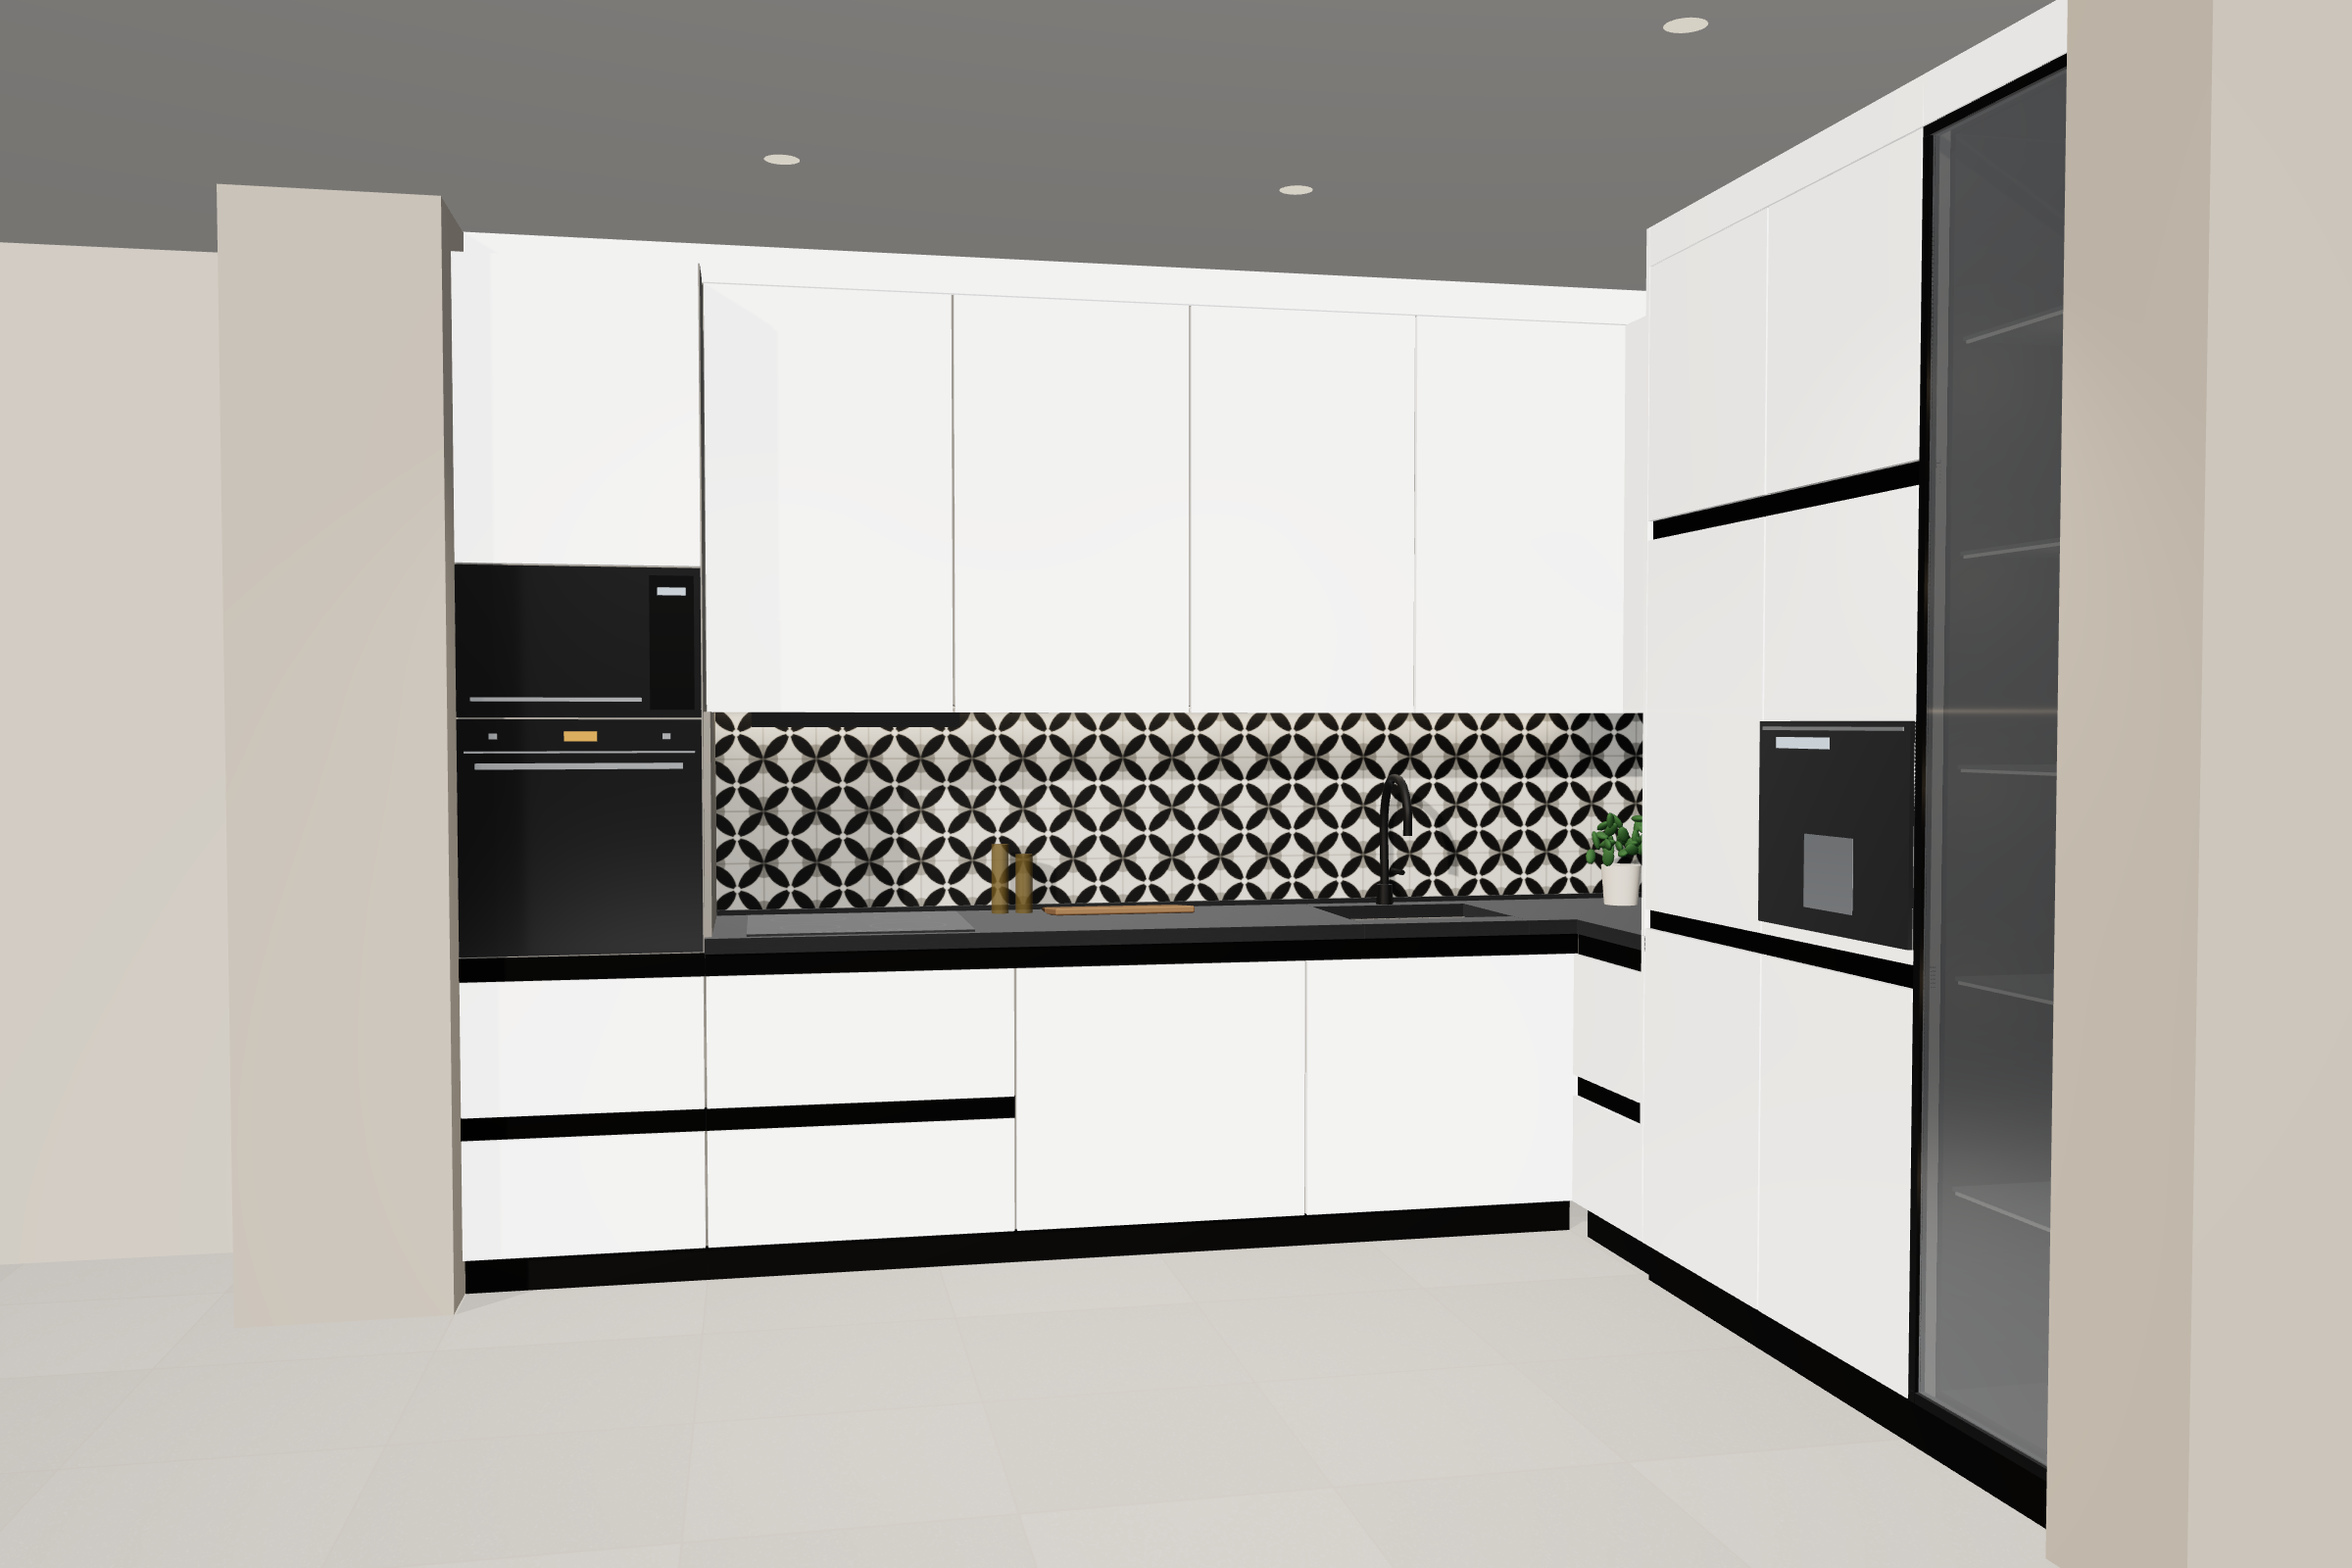
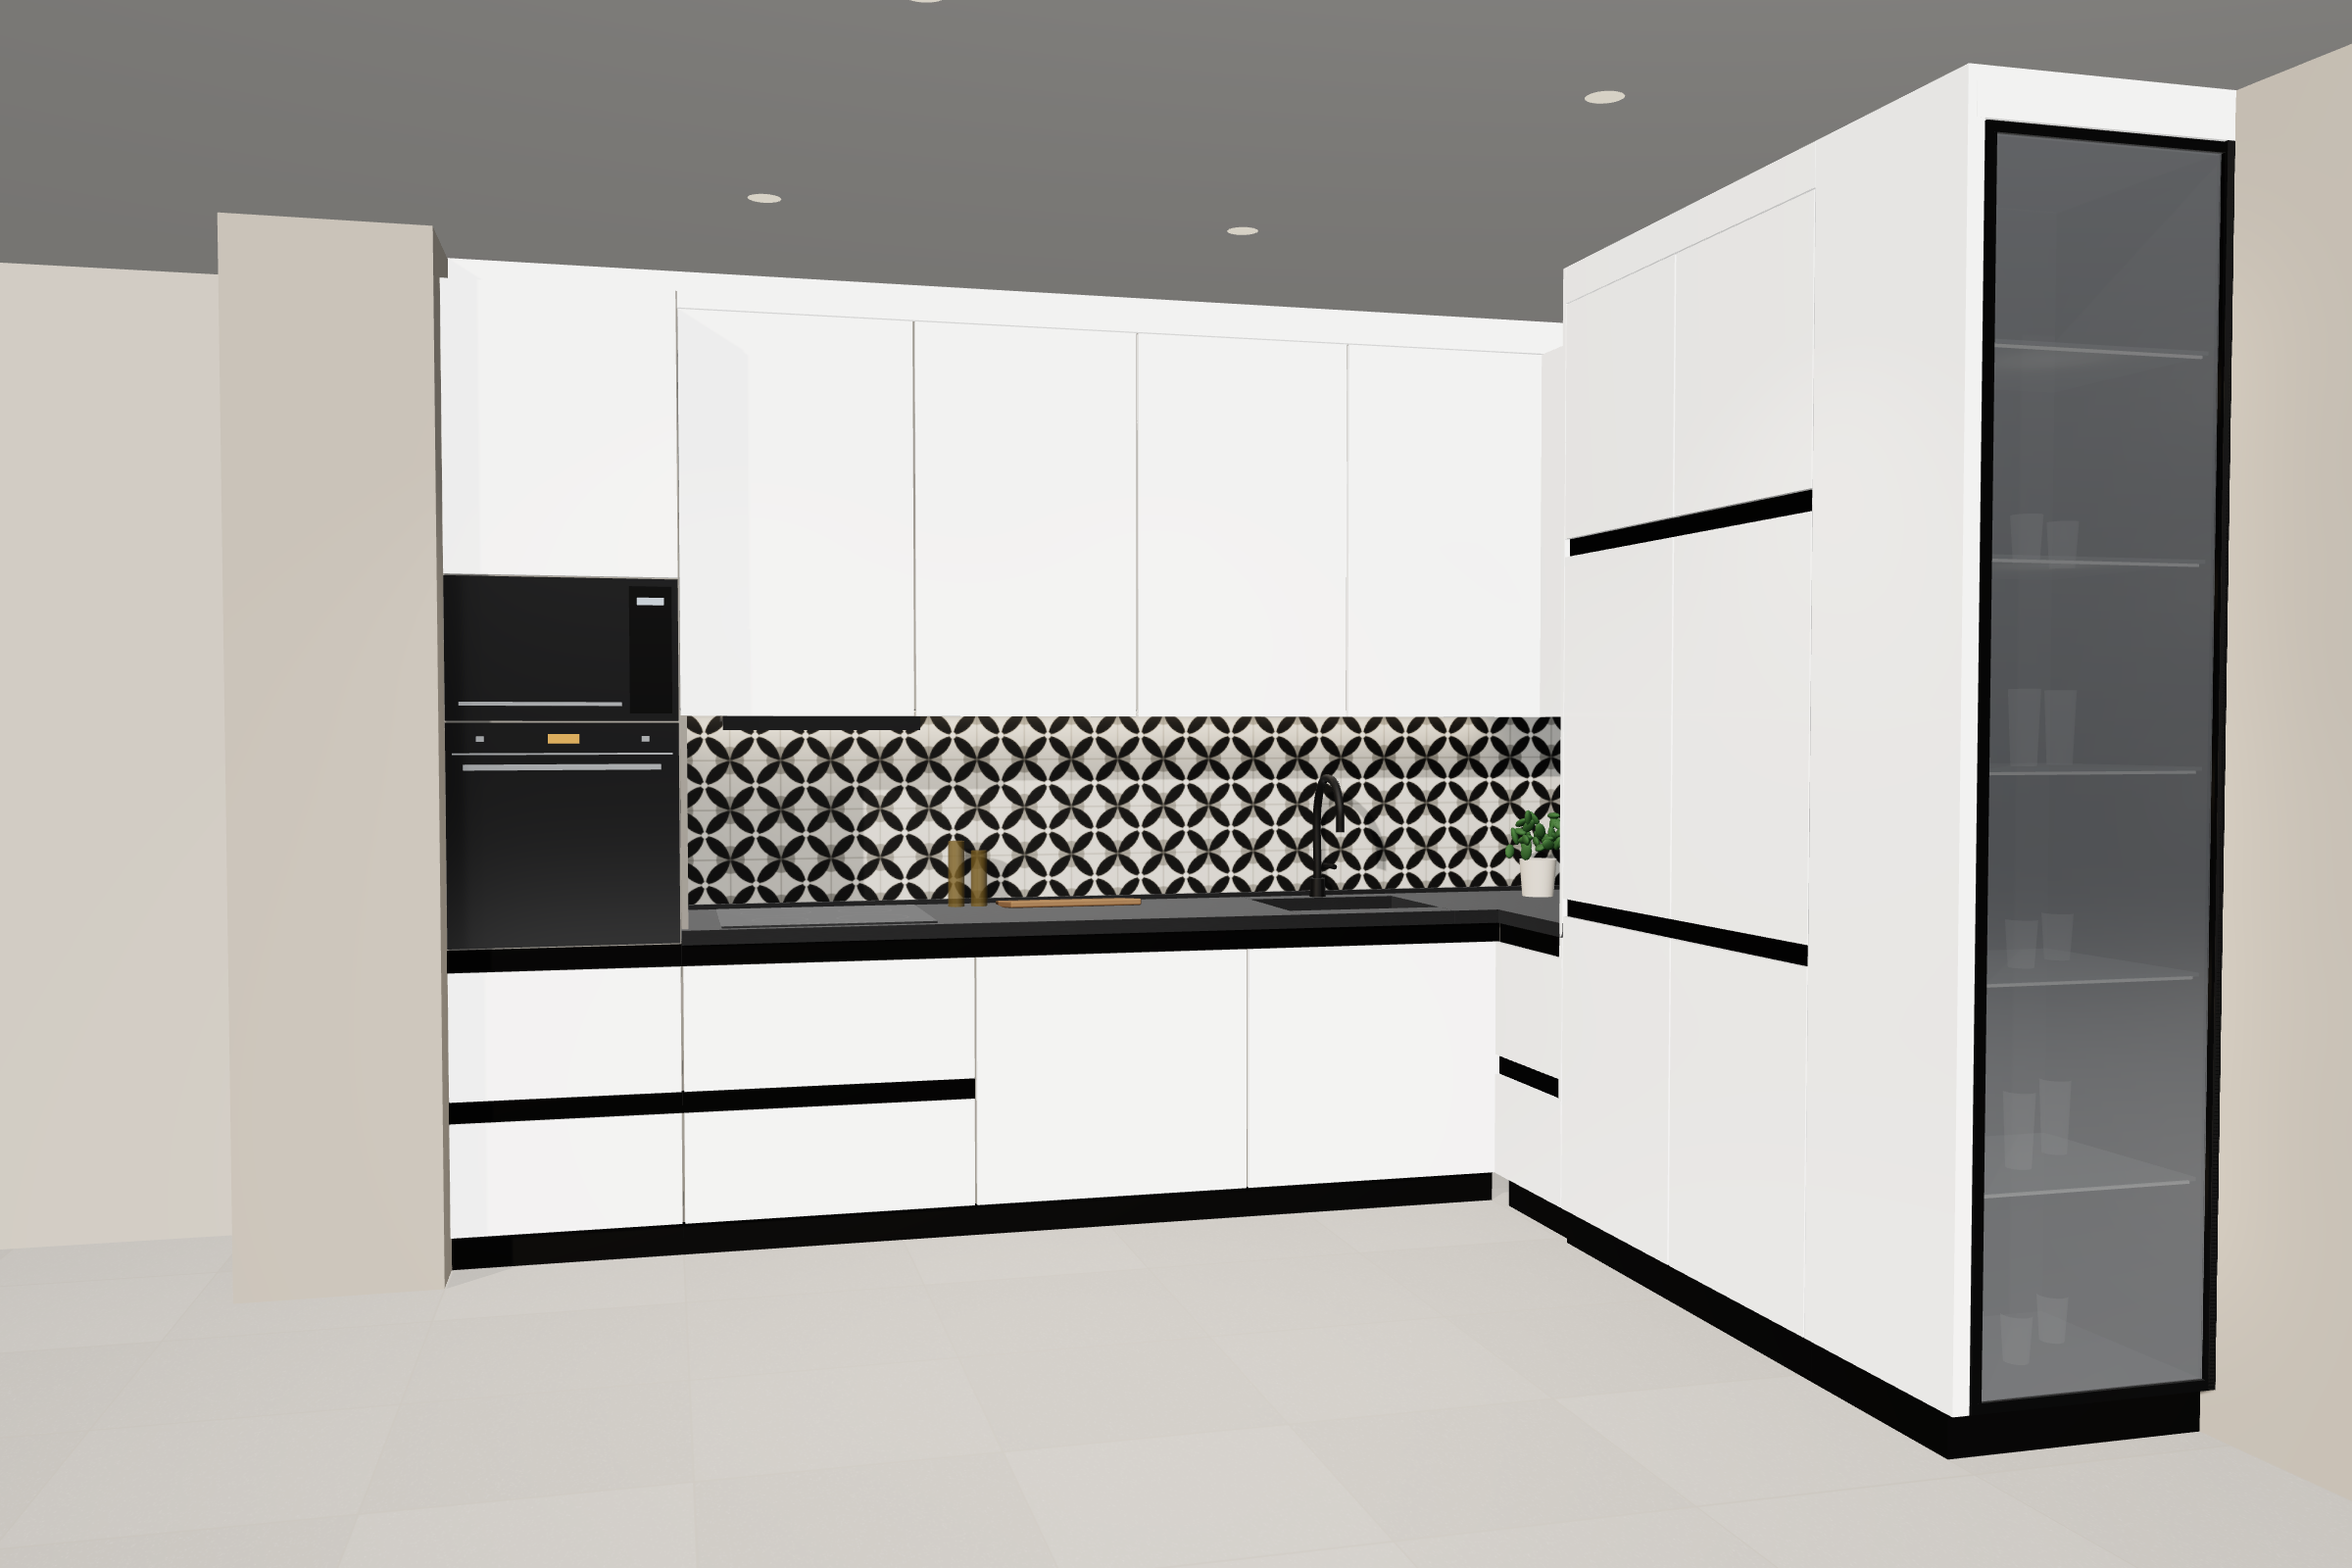
Kitchen render: glass vitrine on the end face, remove appliance next to it
Claude-Session: https://claude.ai/code/session_013ipHgxphH9tttrrA68zj3e

diff --git a/renders/kitchen-scene.html b/renders/kitchen-scene.html
@@ -164,7 +164,6 @@ box(-3, 3.6, 0, CEIL, -0.1, 0, M.wall, { cast: false });              // back wa
 box(3.6, 3.7, 0, CEIL, -0.1, 6, M.wall, { cast: false });             // right wall
 box(-3, 3.7, CEIL, CEIL + 0.05, -0.1, 6, M.ceiling, { cast: false }); // ceiling
 box(-0.5, 0, 0, CEIL, 0, 0.72, M.pier);              // left pier
-box(2.92, 3.6, 0, CEIL, 2.76, 3.1, M.pier);          // right pier
 
 // ---------- left tall column (x 0..0.6): drawers + oven at eye level + built-in microwave ----------
 box(0, 0.6, 0, 0.1, 0, 0.54, M.plinth);
@@ -289,50 +288,41 @@ for (const [zA, zB] of [[1.05, 1.65], [1.65, 2.25]]) {
 }
 box(2.995, 3.03, 0.92, 0.97, 1.05, 2.25, M.gola);
 box(2.995, 3.03, 1.92, 1.97, 1.05, 2.25, M.gola);
-// built-in coffee machine in second column (replaces part of middle door)
+// glass vitrine at the END of the run: glass door on the end face (z = 2.76), facing the room
 {
-  const zA = 1.65 + G, zB = 2.25 - G, y0 = 1.0, y1 = 1.455;
-  box(2.97, 2.985, y0, y1, zA, zB, M.blackGlass);
-  box(2.968, 2.97, y0 + 0.05, y0 + 0.21, zA + 0.2, zB - 0.2, M.steel); // spout block
-  box(2.966, 2.968, y1 - 0.06, y1 - 0.035, zA + 0.08, zA + 0.3, M.displayW, { cast: false });
-  box(2.966, 2.97, y1 - 0.02, y1 - 0.012, zA + 0.02, zB - 0.02, M.steel, { cast: false });
-}
-
-// glass vitrine z 2.25..2.76: graphite glass in black aluminium frame
-{
-  const zA = 2.25, zB = 2.76, y0 = 0.1, y1 = TY;
-  box(3.0, 3.6, 0, 0.1, zA, zB, M.plinth);
-  box(3.04, 3.6, y0, y1, zA, zA + 0.018, M.vitBack);        // inner sides
-  box(3.04, 3.6, y0, y1, zB - 0.018, zB, M.vitBack);
-  box(3.58, 3.6, y0, y1, zA, zB, M.vitBack);                // back
-  box(3.04, 3.6, y0, y0 + 0.018, zA, zB, M.vitBack);
-  box(3.04, 3.6, y1 - 0.018, y1, zA, zB, M.vitBack);
-  box(2.98, 3.04, y1, CEIL, zA, zB, M.gloss, { cast: false });
+  const zA = 2.25, zB = 2.76, xA = 3.0, xB = 3.6, y0 = 0.1, y1 = TY;
+  box(xA, xB, 0, 0.1, zA, zB - 0.04, M.plinth);
+  box(xA - 0.02, xA + 0.018, y0, CEIL, zA, zB, M.gloss);          // gloss side panel toward kitchen front line
+  box(xA + 0.018, xB, y0, y1, zA, zA + 0.018, M.vitBack);           // back (shared with tall column)
+  box(xB - 0.018, xB, y0, y1, zA, zB, M.vitBack);
+  box(xA + 0.018, xB, y0, y0 + 0.018, zA, zB - 0.02, M.vitBack);
+  box(xA + 0.018, xB, y1 - 0.018, y1, zA, zB - 0.02, M.vitBack);
+  box(xA, xB, y1, CEIL, zB - 0.04, zB, M.gloss, { cast: false });
   for (let k = 1; k <= 5; k++) {
     const y = y0 + k * (y1 - y0) / 6;
-    box(3.06, 3.57, y, y + 0.008, zA + 0.02, zB - 0.02, M.shelfGlass, { cast: false });
-    // led line at front edge of each shelf
-    box(3.06, 3.065, y - 0.006, y, zA + 0.03, zB - 0.03, M.led, { cast: false });
-    const pl = new THREE.PointLight(0xffe2b8, 0.12, 0.6, 2); pl.position.set(3.2, y - 0.04, (zA + zB) / 2); scene.add(pl);
+    box(xA + 0.02, xB - 0.02, y, y + 0.008, zA + 0.02, zB - 0.04, M.shelfGlass, { cast: false });
+    box(xA + 0.03, xB - 0.03, y - 0.006, y, zB - 0.05, zB - 0.045, M.led, { cast: false });
+    const pl = new THREE.PointLight(0xffe2b8, 0.12, 0.6, 2); pl.position.set((xA + xB) / 2, y - 0.04, zB - 0.15); scene.add(pl);
   }
-  // some glassware on shelves
   const glassObj = new THREE.MeshPhysicalMaterial({ color: 0xffffff, roughness: 0.05, transparent: true, opacity: 0.25, depthWrite: false });
   for (let k = 0; k <= 4; k++) {
     const y = y0 + k * (y1 - y0) / 6 + (k ? 0.008 : 0.018);
     for (let j = 0; j < 3; j++) {
       const r = 0.032, h = 0.1 + (k % 2) * 0.06;
       const c = new THREE.Mesh(new THREE.CylinderGeometry(r, r * 0.8, h, 24, 1, true), glassObj);
-      c.position.set(3.3 + (j % 2) * 0.1, y + h / 2, zA + 0.11 + j * 0.14); scene.add(c);
+      c.position.set(xA + 0.12 + j * 0.17, y + h / 2, zA + 0.2 + (j % 2) * 0.1); scene.add(c);
     }
   }
-  // door: graphite glass + black frame
-  const fz0 = zA + G, fz1 = zB - G, fx0 = 2.978, fx1 = 3.0, f = 0.022;
+  // door: graphite glass in black aluminium frame
+  const fx0 = xA + 0.02 + G, fx1 = xB - G, fz0 = zB - 0.02, fz1 = zB, f = 0.022;
   box(fx0, fx1, y0, y0 + f, fz0, fz1, M.alu);
   box(fx0, fx1, y1 - G - f, y1 - G, fz0, fz1, M.alu);
-  box(fx0, fx1, y0, y1 - G, fz0, fz0 + f, M.alu);
-  box(fx0, fx1, y0, y1 - G, fz1 - f, fz1, M.alu);
-  box(2.986, 2.99, y0 + f, y1 - G - f, fz0 + f, fz1 - f, M.glass, { cast: false });
+  box(fx0, fx0 + f, y0, y1 - G, fz0, fz1, M.alu);
+  box(fx1 - f, fx1, y0, y1 - G, fz0, fz1, M.alu);
+  box(fx0 + f, fx1 - f, y0 + f, y1 - G - f, fz0 + 0.008, fz0 + 0.012, M.glass, { cast: false });
 }
+// gloss end-cap for the tall column side facing the vitrine line
+box(2.98, 3.0, 0.1, TY - G, 2.25 + G, 2.25 + 0.002, M.gloss);
 
 // ---------- decor ----------
 {
@@ -372,7 +362,7 @@ const fill = new THREE.RectAreaLight(0xffffff, 0.35, 4, 2.4); fill.position.set(
 // ---------- camera ----------
 const cam = new THREE.PerspectiveCamera(44, W / H, 0.05, 50);
 if (VIEW === 'side') { cam.position.set(0.3, 1.5, 3.9); cam.lookAt(2.6, 1.2, 1.2); }
-else { cam.position.set(0.75, 1.45, 5.7); cam.lookAt(1.75, 1.3, 1.0); }
+else { cam.position.set(0.55, 1.45, 6.0); cam.lookAt(1.85, 1.3, 1.1); }
 cam.updateProjectionMatrix();
 
 renderer.render(scene, cam);
